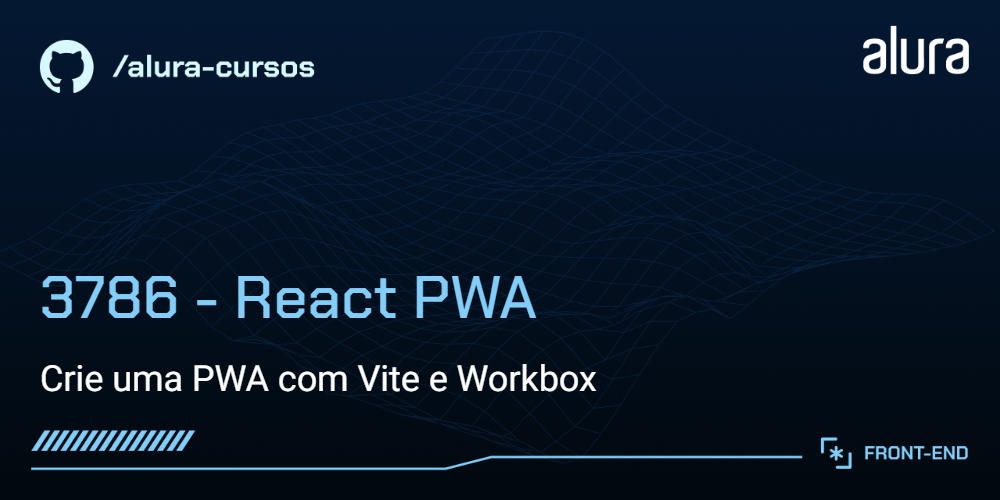
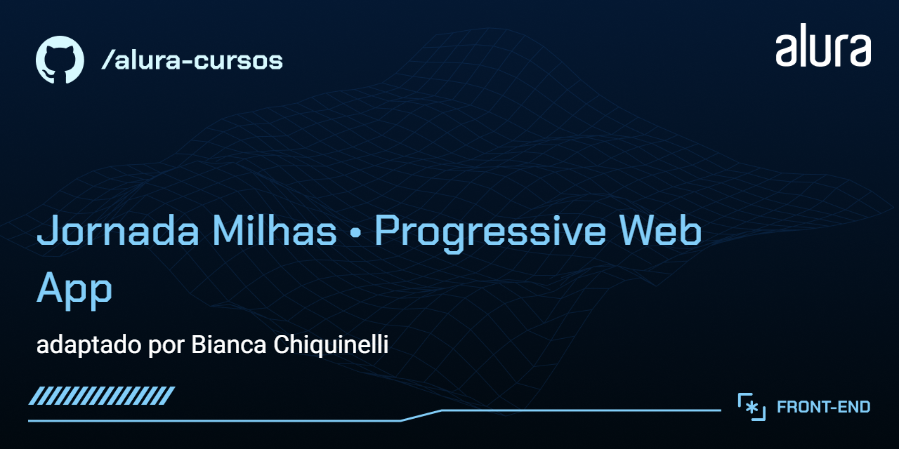
docs(readme): adapta readme de acordo com implementações durante o curso

diff --git a/README.md b/README.md
@@ -1,46 +1,41 @@
-![Jornada Milhas](thumb.png)
-
 # Jornada Milhas
 
-Explore o Jornada Milhas: seu guia de viagens para aventuras sem limites! Encontre inspiração, planeje suas jornadas e aproveite ofertas incríveis. Estamos em desenvolvimento e em breve, nossa funcionalidade PWA para acesso rápido em qualquer lugar!
+![Thumbnail do projeto. O título é “Jornada Milhas • Progressive Web App” e o Subtítulo é “adaptado por Bianca Chiquinelli.”](thumb.png)
+
+Aplicação web de viagens desenvolvida com foco em experiência responsiva e evolução para Progressive Web App (PWA), utilizando estratégias de cache e recursos offline para otimizar desempenho e acessibilidade.
 
 ![Imagem da aplicação da Jornada Milhas](jornada-milhas.png)
 
-## 🔨 Funcionalidades do projeto
+## ✨ Funcionalidades
 
-Neste estágio de desenvolvimento, o site possui as seguintes funcionalidades:
+- Exibição de pacotes de viagens em interface responsiva
+- Estrutura preparada para instalação como aplicativo (PWA)
+- Cache estratégico de assets para melhoria de performance
+- Suporte inicial para navegação offline
 
-- Página estática com pacotes de viagens
-- Responsividade para diferentes dispositivos
-- Outras funcionalidades em breve
+## ⚙ Implementações técnicas
 
-O [Figma dessa aplicação você encontra aqui](https://www.figma.com/file/C9Hwa6VpPKLSM6pJVCMZgI/Jornada-Milhas-%7C-React-Service-Workers?type=design&node-id=0-1&mode=design&t=rZNRLbySPNz2Ugjf-0).
+- Configuração de PWA com `VitePWA`
+- Criação e registro manual de `Service Worker`
+- Migração para utilização do `Workbox`
+- Estratégias de cache para imagens e arquivos de estilo
+- Configuração de `manifest.webmanifest`
+- Definição de ícones, metadados e propriedades da aplicação instalável
+- Otimização de carregamento de fontes locais
 
-## ✔ Técnicas e tecnologias utilizadas
+## 🧩 Tecnologias utilizadas
 
-O projeto utiliza as seguintes tecnologias e bibliotecas:
+- `React`
+- `Vite`
+- `JavaScript`
+- `VitePWA`
+- `Workbox`
 
-- `React` - Framework JavaScript
-- `Vite` - Build tool para desenvolvimento rápido
-- `VitePWA` - Plugin para criação de PWA's em aplicações com vite
-- `Workbox` - Biblioteca para criação e gerenciamento de PWA's
-- `JavaScript` - Linguagem de programação principal
-- `Styled Components` - Ferramenta de estilização do nosso projeto
-- `Figma` - Para prototipagem do projeto
+## Como Ter Acesso ao Projeto
 
-E muito mais...
-
-## 🛠 Abrir e rodar o projeto
-
-Para executar o projeto em seu ambiente local, siga estas etapas:
-
-1. Certifique-se de ter o Node.js instalado em sua máquina. Nós usamos a versão 20.10.0
-
-2. Baixe o repositório do projeto.
-
-3. Extraia os arquivos para uma pasta de sua preferência.
-
-4. Navegue até a pasta em questão via terminal (cmd):
+- **Versão online**: [Clique aqui](https://jornada-milhas-delta.vercel.app/)
+- **Rodar localmente**:
+  Clone o repositório e instale as dependências:
 
 ```bash
 cd react-pwa
@@ -57,11 +52,3 @@ npm install
 ```bash
 npm run dev
 ```
-
-## 📚 Mais informações do curso
-
-Gostou do projeto e quer conhecer mais?
-
-O design e protótipo deste projeto podem ser encontrados [aqui](https://www.figma.com/file/C9Hwa6VpPKLSM6pJVCMZgI/Jornada-Milhas-%7C-React-Service-Workers?type=design&node-id=0-1&mode=design&t=rZNRLbySPNz2Ugjf-0). 
-
-Aproveite o desenvolvimento e aprimoramento da Jornada Milhas!
